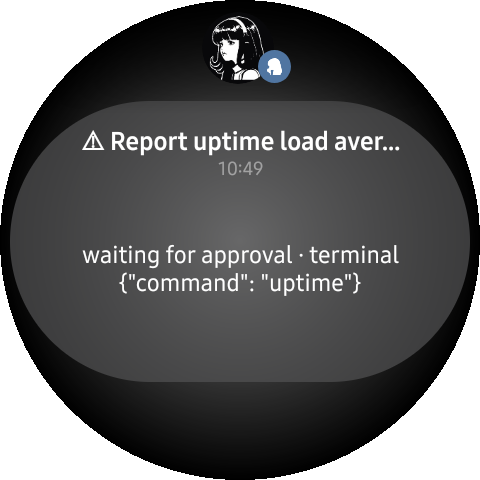
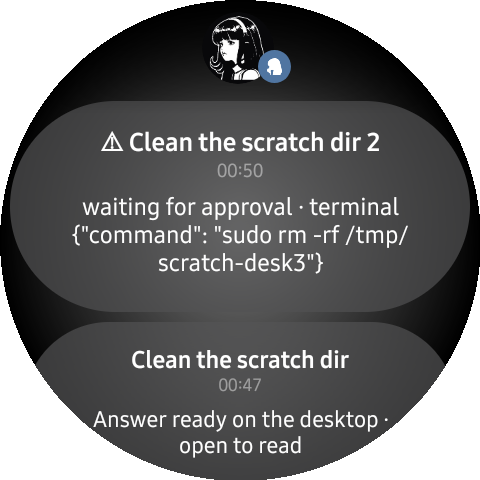
media: 44/45/46 desktop-watch trio from the real mirror lane
Both wrist cards came from the shipped pipeline: an API-parked sudo run
(source flipped to desktop, activity beacon written) surfaced through
watchkit /approvals_waiting -> AwayWatch -> Notifs.approvalRemote; the
answer (denied run, honest assistant tail) buzzed the second card via
the message-count pulse. Shot 46 pairs those settled pixels against
the 39 karaoke frame under the attention-policy pills. The earlier
Nov-6 placeholders were pre-capture renders.

Changed region(s): [[0.0, 0.1875, 1.0, 1.0], [0.1562, 0.4062, 0.8438, 0.625], [0.1562, 0.25, 0.8438, 0.375]]

diff --git a/tools/demo/vision_gate.py b/tools/demo/vision_gate.py
@@ -60,9 +60,9 @@ CLAIMS = {
  "41-edge-circle-pair.png": "Two round watch frames of a 'Chats · wear-demo' list side by side: the left frame labeled 'BEFORE — LIST TOP' shows the header, a '＋ new' button and the top row 'Reply message handling'; the right frame labeled 'AFTER ONE RIM DRAG' has scrolled down so rows 'api-9124dacce625d7ff', 'Harbor brief for the marina log. First…' and a '⚙ settings' button are visible.",
  "42-gateways-multi.png": "A Gateways page shows the transport line 'wifi(wlan0) · validated', a selected 'borealbytes.github' row (filled radio, mosaic-blurred FQDN sub-line, green dot) with a pencil and red ✕, and below it a 'harbor-lab' row with a pencil and red ✕, above a pixelated Base URL field band.",
  "43-agent-keys.png": "A list of agent profile rows (resume-builder, squawkbox, wear, wear-demo, weather) each shows a green '✓ key' badge on the right edge, above a 'learn from watchkit' button.",
- "44-notify-desktop-approval.png": "A watch notification card titled '⚠ Report uptime load aver…' shows body text 'waiting for approval · terminal {\"command\": \"uptime\"}' with a spirit avatar badge at the top.",
- "45-notify-desktop-settled.png": "A watch screen shows a large grey notification card titled 'Terminal sleep 45' at 11:54 with body text 'Answer ready on the desktop · open to read' and the spirit avatar above it.",
- "46-attention-pair.png": "Two round watch frames side by side: the left shows long prose chat text with a red-ringed orb and a caption pill 'LIVE ON GLASS · SPOKEN, NO NOTIFY'; the right shows a notification card 'Terminal sleep 45 — Answer ready on the desktop' with caption pill 'OFF THE WRIST · NOTIFIED, SILENT'.",
+ "44-notify-desktop-approval.png": "A round watch screen shows a notification list with a spirit avatar badge and a card titled '⚠ Clean the scratch dir 2' whose body reads 'waiting for approval · terminal' followed by a command to remove /tmp/scratch-desk3.",
+ "45-notify-desktop-settled.png": "A round watch screen shows a notification list where a card titled 'Clean the scratch dir' has body text 'Answer ready on the desktop · open to read'.",
+ "46-attention-pair.png": "Two round watch frames side by side: the left shows a chat with a user question bubble above an answer and a red-ringed spirit orb, captioned 'LIVE ON GLASS · SPOKEN, NO NOTIFY'; the right shows a notification list with a card whose body says 'Answer ready on the desktop', captioned 'OFF THE WRIST · NOTIFIED, SILENT'.",
  "47-about-screen.png": "An About settings page shows 'stt model: present' with a green check, 'version: v0.8.0', a 'MIT · borealBytes' line, a 'hermes-wearos — this repo' link row, and 'made by' / 'author' lines.",
  "48-media-cards.png": "A watch chat shows generated media as inline cards: a video card 'clip.mp4' with a colorful aurora-swirl poster frame and 'tap to play · fullscreen', and below it an audio card 'tone.opus' with a music-note icon and 'tap to listen'.",
  "49-video-player.png": "A full-screen video player shows a moving aurora-swirl frame (green and purple rings) with media3 transport controls: a rewind-5 chip, a white pause circle, a forward-15 chip, a progress bar, a '🔊 60%' volume readout beside the bar, and '00:02 · 00:06' at the bottom.",
